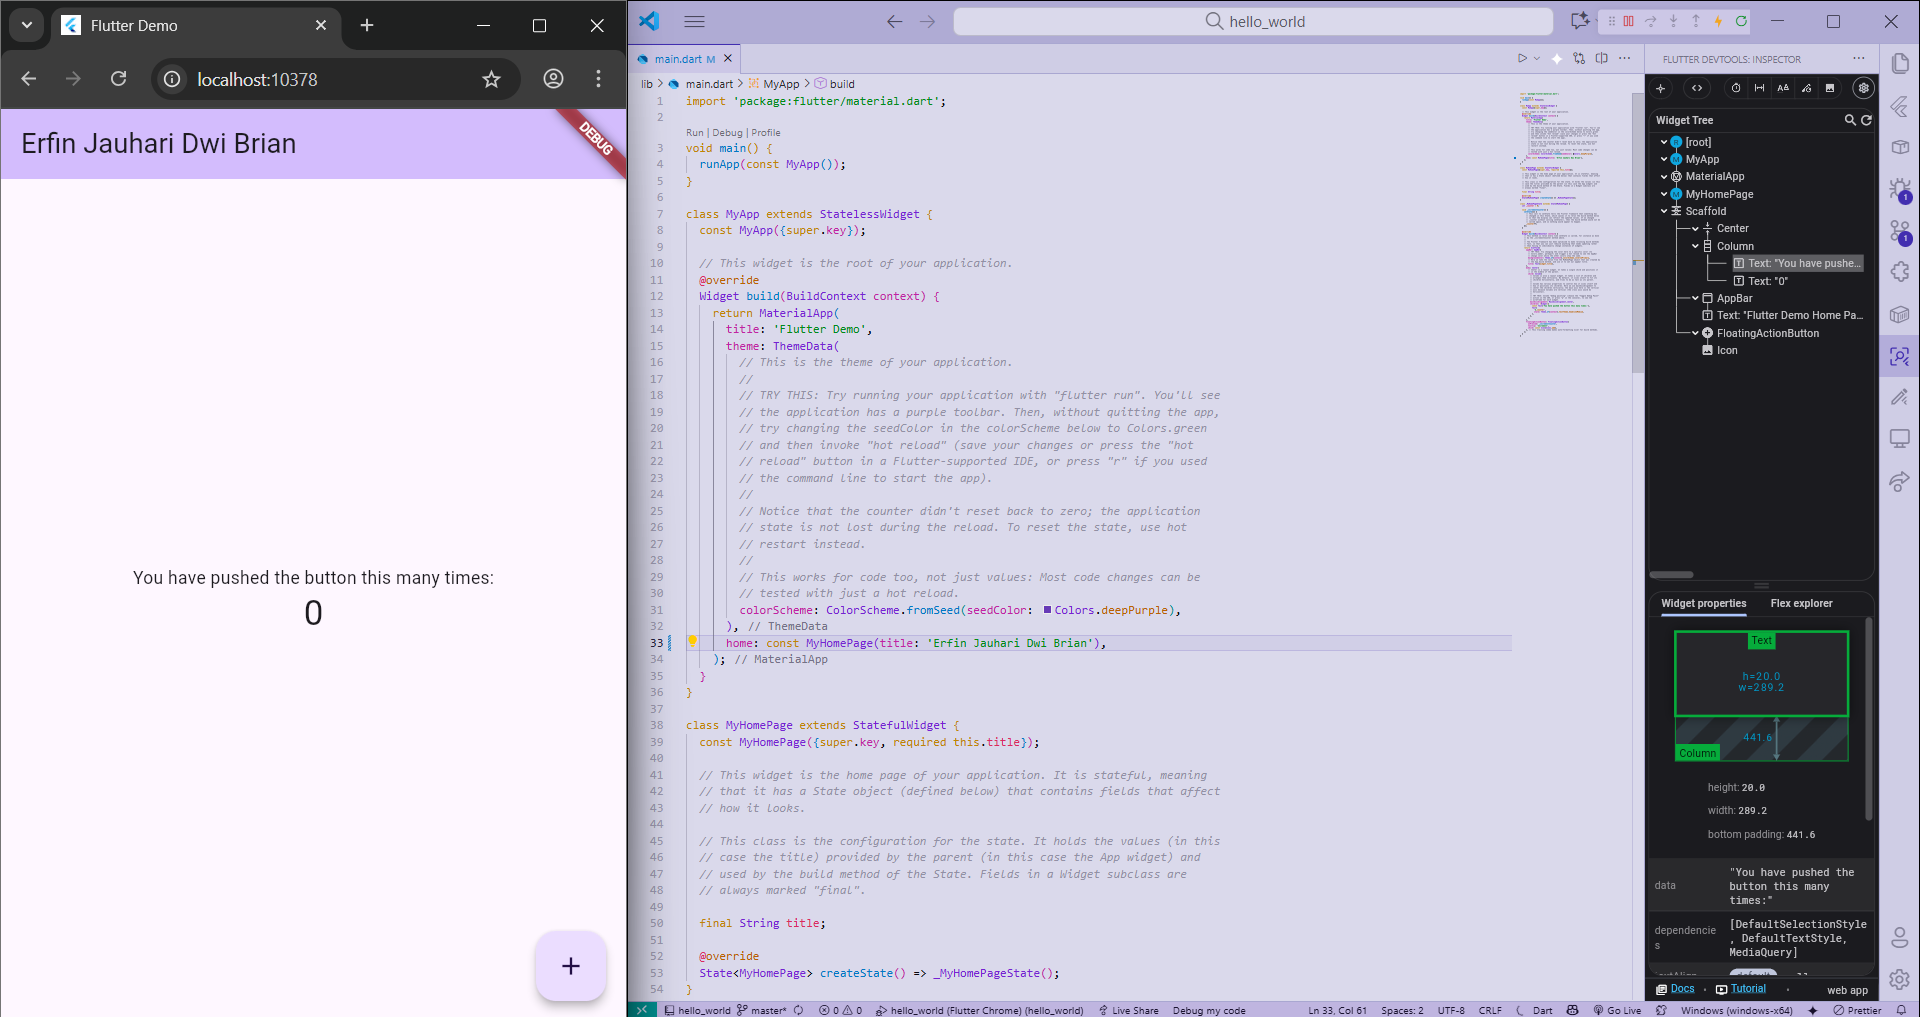
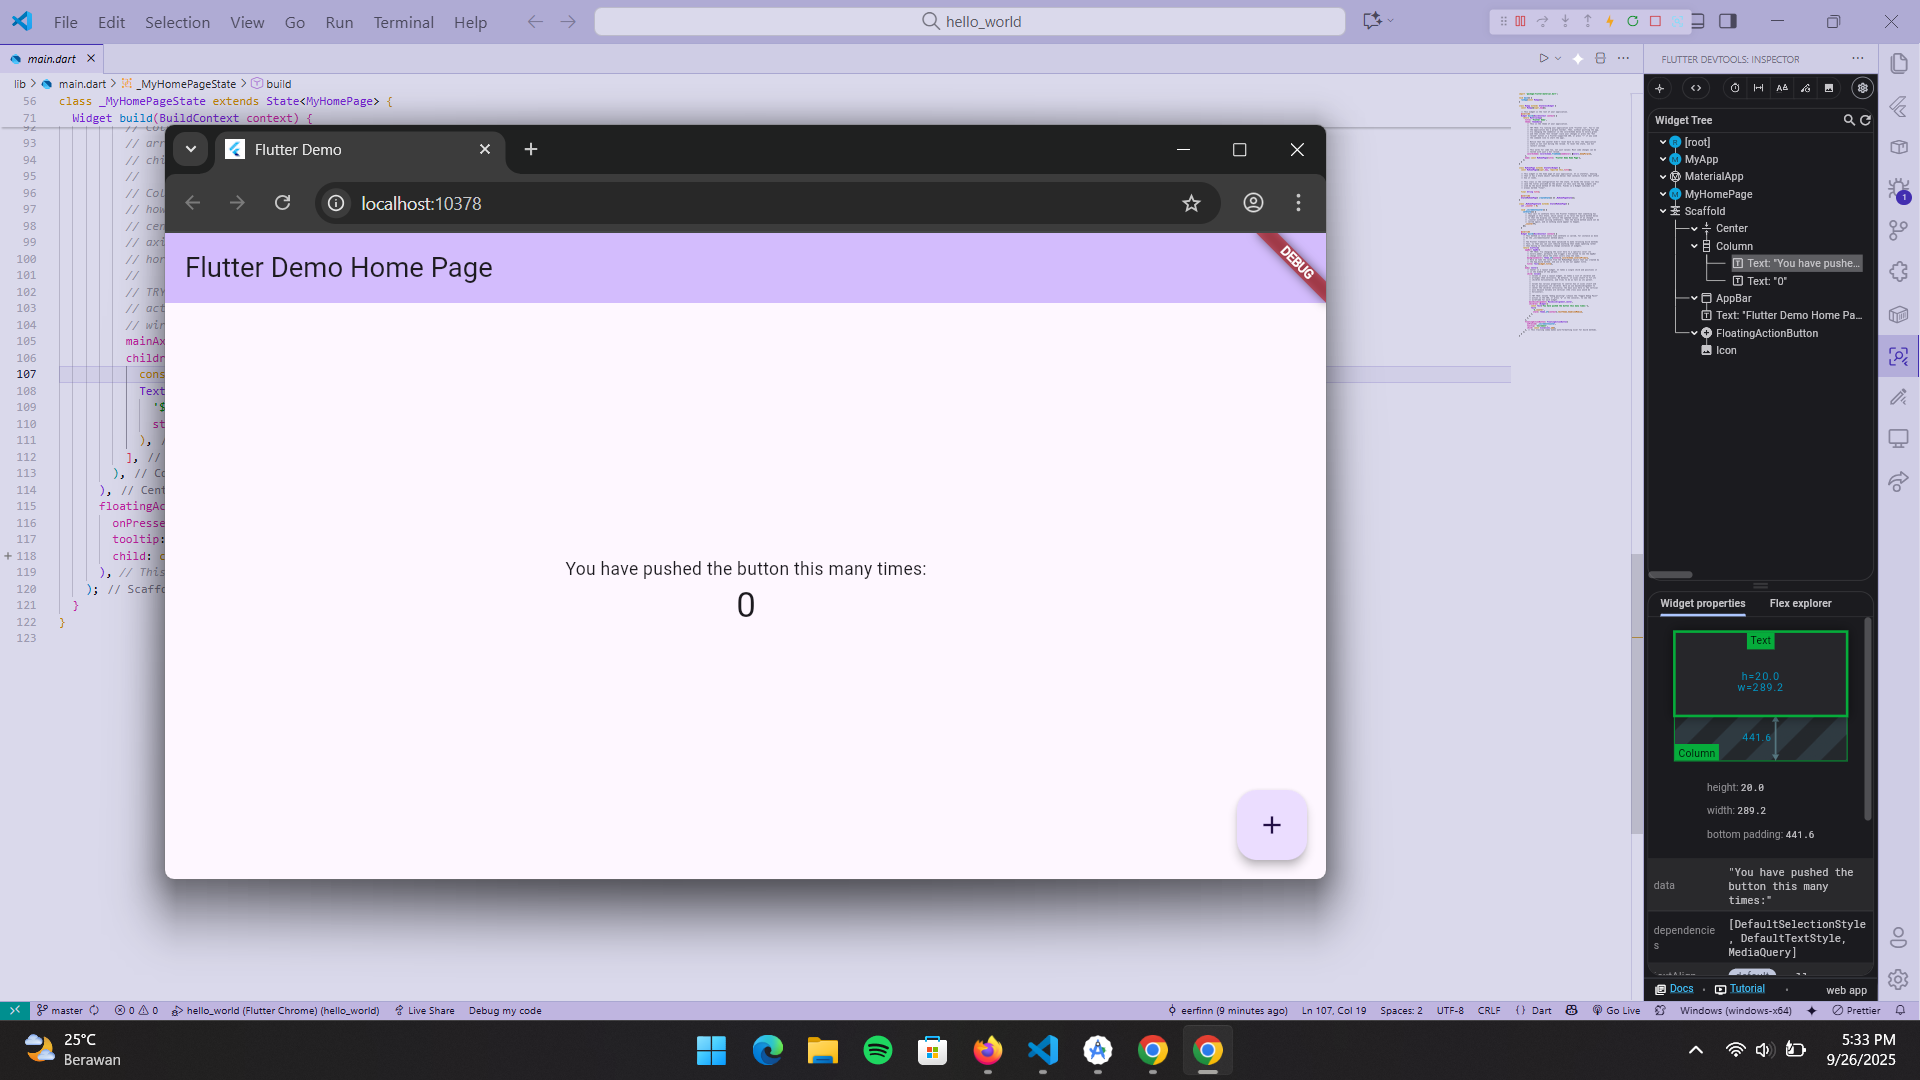
laporan praktikum 3 langkah 11-12

diff --git a/README.md b/README.md
@@ -1,42 +1,47 @@
 # LAPORAN PRAKTIKUM
 
 ## Praktikum 1: Membuat Project Flutter Baru   
-
-* **Langkah 1:** Membuat Project Flutter Baru dan memilih Template Flutter  
+### Langkah 1: Membuat Project Flutter Baru dan memilih Template Flutter  
    ![new_flutter](images/01.png)  
    ![new_flutter](images/02.png)
 
-* **Langkah 2:** Memilih Lokasi Project  
+### Langkah 2: Memilih Lokasi Project  
    ![new_flutter](images/03.png)
 
-* **Langkah 3:** Memilih Nama Project  
+### Langkah 3: Memilih Nama Project  
    ![new_flutter](images/04.png)
 
-* **Langkah 4:** Flutter Project berhasil dibuat  
+### Langkah 4: Flutter Project berhasil dibuat  
    ![new_flutter](images/05.png)
 
+
 ## Praktikum 2: Menghubungkan Perangkat Android/Emulator
+### Langkah 1: Mengaktifkan proses debug USB dan Menginstall Driver USB Google  
+   ![connecting_devices_usb](images/06.png)
+   <img src="images/07.jpg" alt="connecting_devices_usb" width="1400"/>
 
-* **Langkah 1:** Mengaktifkan proses debug USB dan Menginstall Driver USB Google  
-   <img src="images/06.jpg" alt="connecting_devices_usb" width="900"/>
-    ![connecting_devices_usb](images/07.png)
+### Langkah 2: Sambungkan perangkat Android ke komputer menggunakan kabel USB
+   <img src="images/08.jpg" alt="connecting_devices_usb" width="1400"/>
 
-* **Langkah 2:** Sambungkan perangkat Android ke komputer menggunakan kabel USB
-    ![connecting_devices_usb](images/08.jpg)
+### Langkah 3: Menjalankan aplikasi dari Android Studio di perangkat Android Menggunakan kabel USB
+   ![connecting_devices_usb](images/09.png)
+   <img src="images/10.jpg" alt="connecting_devices_wifi" width="1400"/>
 
-* **Langkah 3:** Menjalankan aplikasi dari Android Studio di perangkat Android Menggunakan kabel USB
-    ![connecting_devices_usb](images/09.png)
-    ![connecting_devices_usb](images/10.jpg)
+### Langkah 4: Menjalankan aplikasi di perangkat Android menggunakan Wi-Fi dengan menghubungkan perangkat Android dan komputer ke jaringan nirkabel yang sama
+   ![connecting_devices_wifi](images/11.png)   
 
-* **Langkah 4:** Sambungkan perangkat Android dan komputer ke jaringan nirkabel yang sama
-    ![connecting_devices_wifi](images/11.png)   
+### Langkah 5: Scan QR Code dengan perangkat Android
+   <img src="images/12.jpg" alt="connecting_devices_wifi" width="1400"/>
+    <img src="images/13.jpg" alt="connecting_devices_wifi" width="1400"/>
 
-* **Langkah 5:** Scan QR Code dengan perangkat Android
-    ![connecting_devices_wifi](images/12.jpg)
-    ![connecting_devices_wifi](images/13.jpg)
 
 ## Praktikum 3: Membuat Repository GitHub dan Laporan Praktikum
+### Langkah 1-10: Membuat dan Remote Repository GitHub
+   ![create_repository](images/14.png)
+   ![create_repository](images/15.png)
 
-* **Langkah 1-10:** Membuat dan Remote Repository GitHub
-    ![create_repository](images/14.png)
-    ![create_repository](images/15.png)
+### Langkah 11: Running project hello_world
+   ![create_repository](images/16.png)
+
+### Langkah 12: Teks yang ditampilkan dalam aplikasi berupa nama lengkap
+   ![create_repository](images/17.png)
